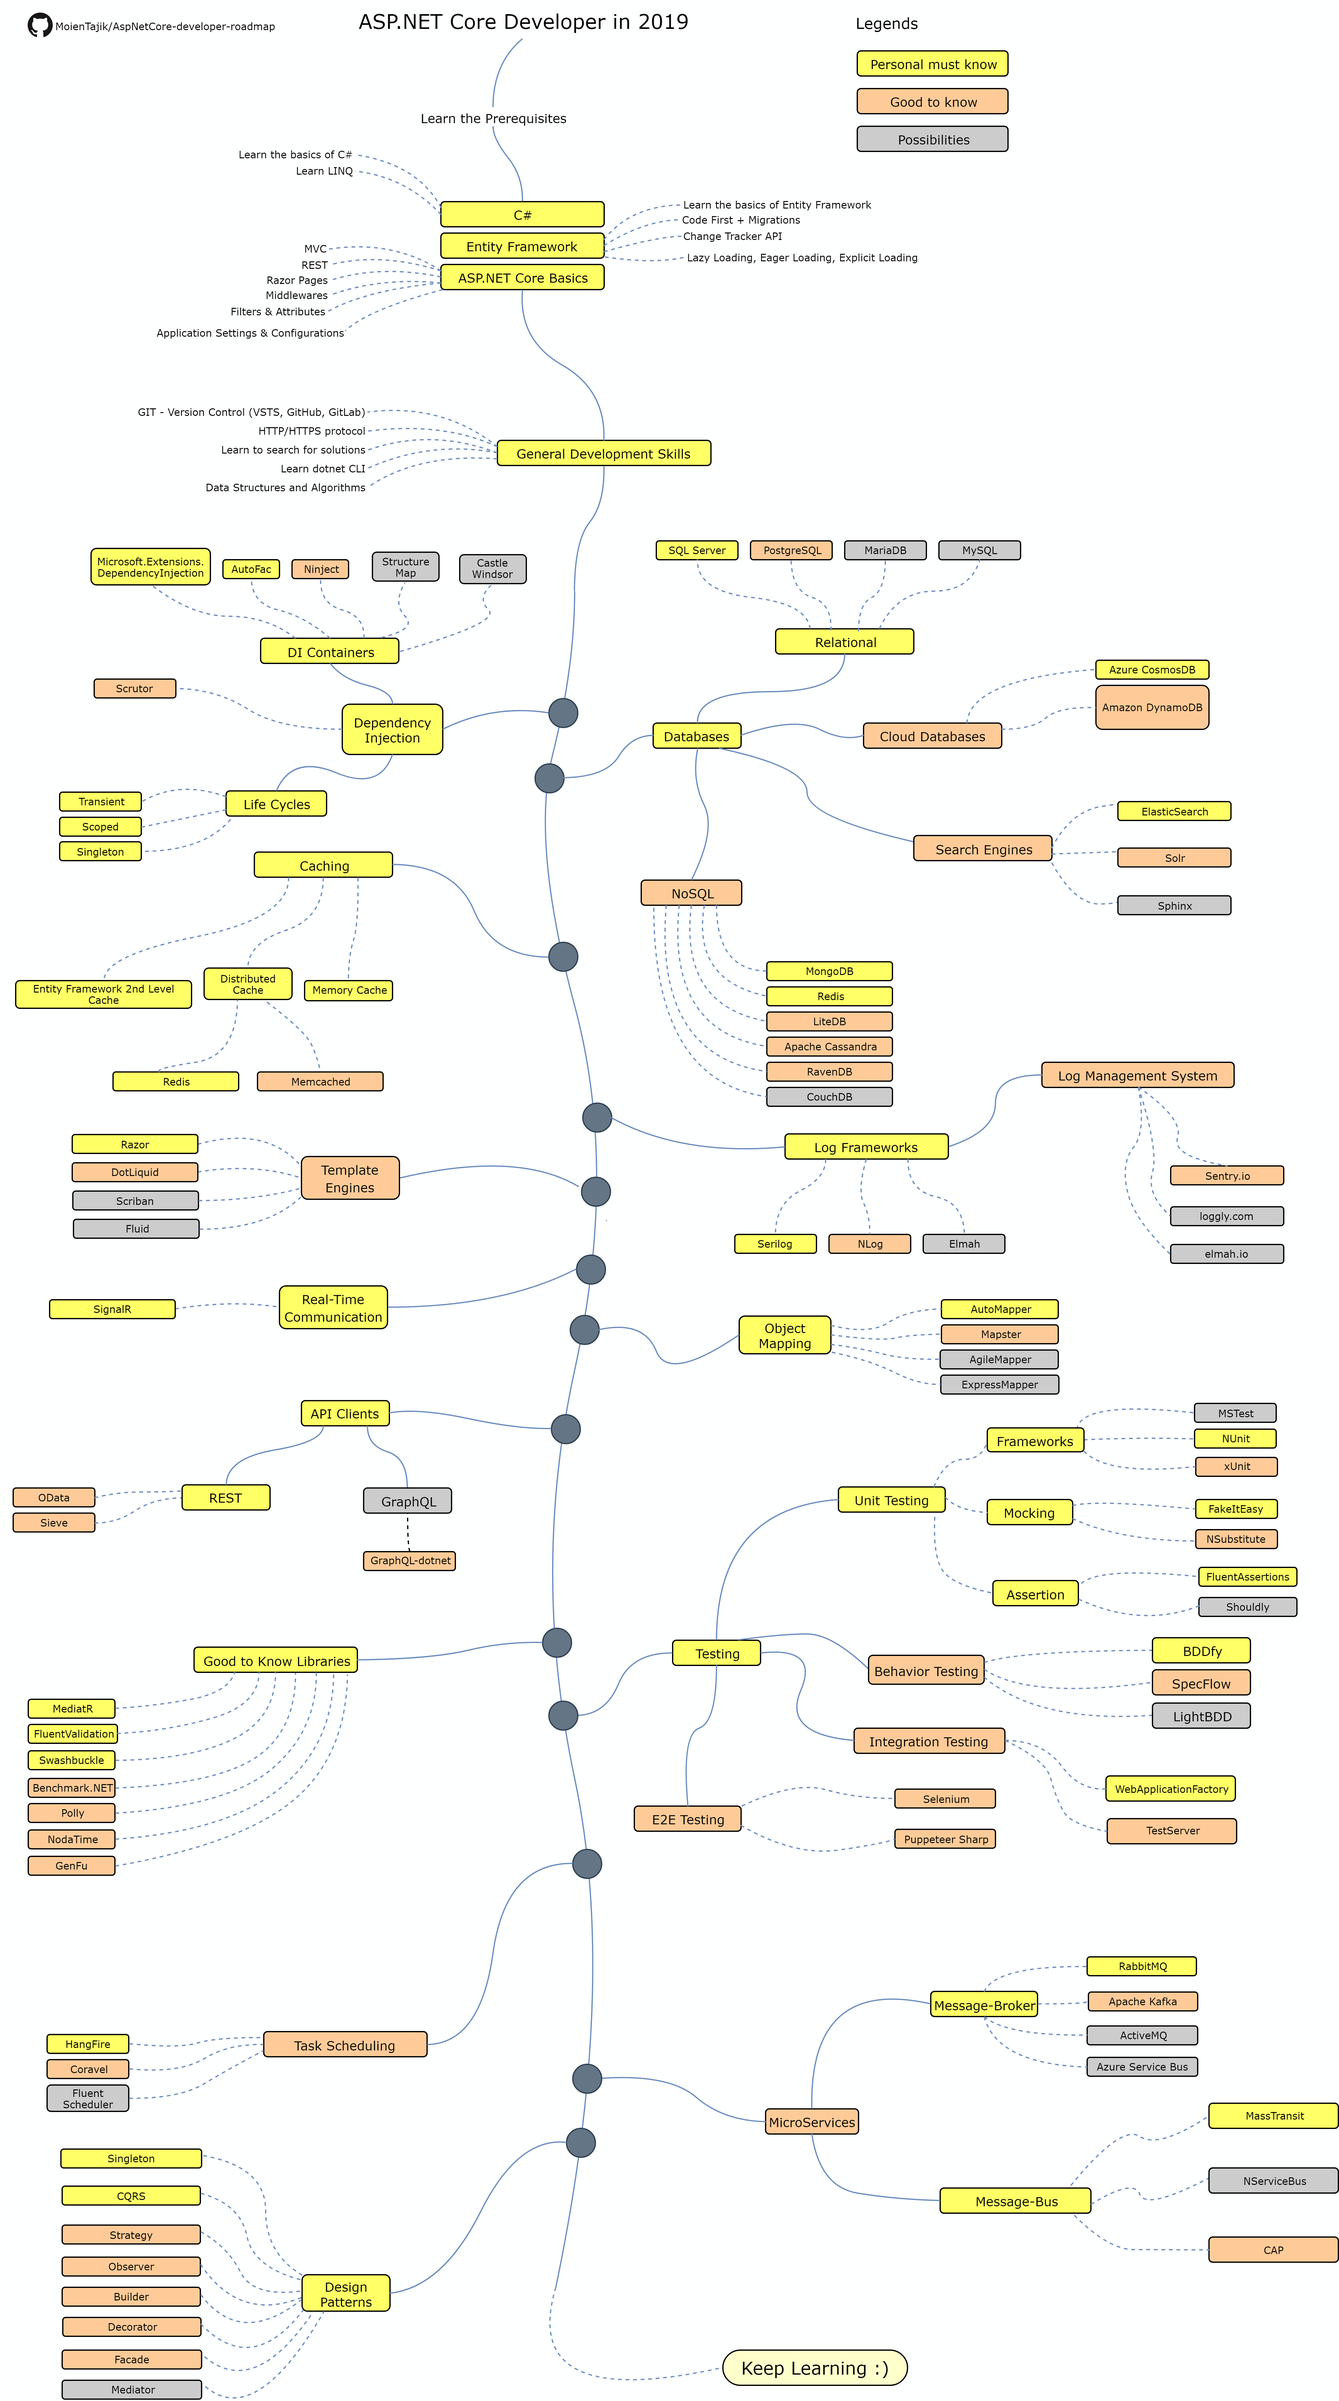
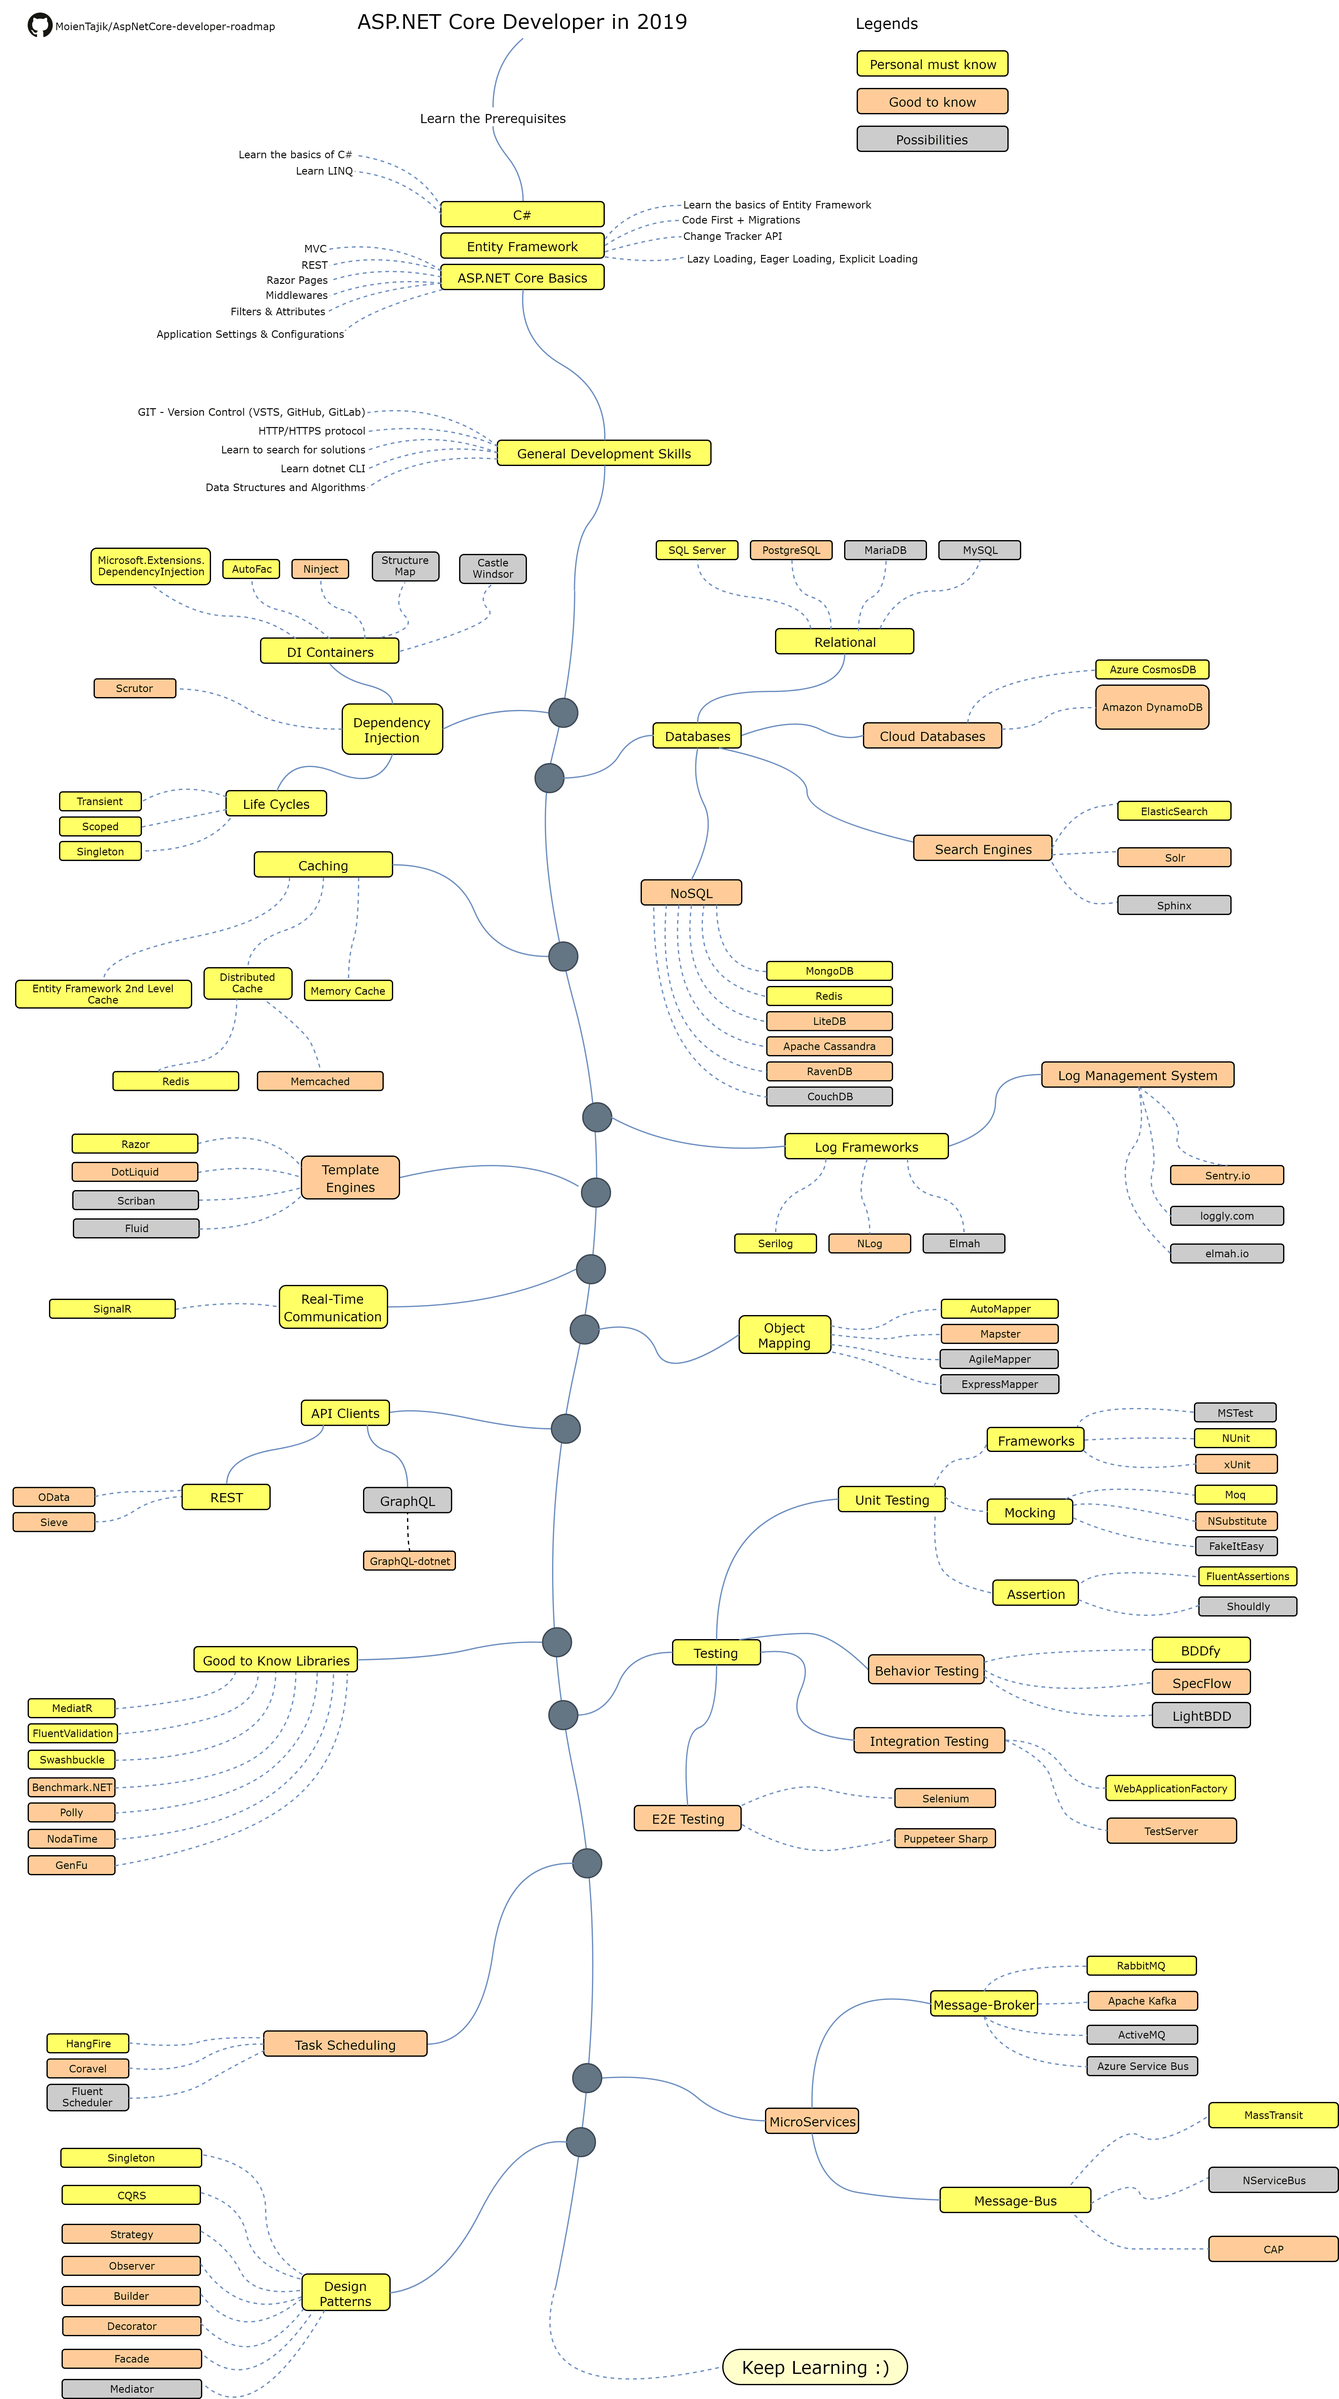
Added Moq to Mocking frameworks

diff --git a/ReadMe.md b/ReadMe.md
@@ -1,4 +1,3 @@
-
 # ASP.NET Core Developer Roadmap
 
 > Roadmap to becoming an [ASP.NET Core](https://docs.microsoft.com/en-us/aspnet/core/?view=aspnetcore-2.2) developer in 2019:
@@ -6,9 +5,11 @@
 Below you can find a chart demonstrating the paths that you can take and the libraries that you would want to learn to become an ASP.NET Core developer. I made this chart as a tip for everyone who asks me, "What should I learn next as an ASP.NET Core developer?"
 
 ## Disclaimer
+
 > The purpose of this roadmap is to give you an idea about the landscape. The road map will guide you if you are confused about what to learn next, rather than encouraging you to pick what is hip and trendy. You should grow some understanding of why one tool would be better suited for some cases than the other and remember hip and trendy does not always mean best suited for the job
 
 ## Give a Star! :star:
+
 If you like or are using this project to learn or start your solution, please give it a star. Thanks!
 
 ## Roadmap
@@ -18,146 +19,157 @@ If you like or are using this project to learn or start your solution, please gi
 ## Resources
 
 1. Prerequisites
-    * [C#](https://www.pluralsight.com/paths/csharp)
-    * [Entity Framework](https://www.pluralsight.com/search?q=entity%20framework%20core)
-    * [ASP.NET Core](https://www.pluralsight.com/search?q=asp.net%20core)
-    
+
+   - [C#](https://www.pluralsight.com/paths/csharp)
+   - [Entity Framework](https://www.pluralsight.com/search?q=entity%20framework%20core)
+   - [ASP.NET Core](https://www.pluralsight.com/search?q=asp.net%20core)
+
 2. General Development Skills
-    * Learn GIT, create a few repositories on GitHub, share your code with other people
-    * Know HTTP(S) protocol, request methods (GET, POST, PUT, PATCH, DELETE, OPTIONS)
-    * Don't be afraid of using Google, [Power Searching with Google](http://www.powersearchingwithgoogle.com/)
-    * Learn [dotnet CLI](https://docs.microsoft.com/en-us/dotnet/core/tools/?tabs=netcore2x)
-    * Read a few books about algorithms and data structures
-    
+
+   - Learn GIT, create a few repositories on GitHub, share your code with other people
+   - Know HTTP(S) protocol, request methods (GET, POST, PUT, PATCH, DELETE, OPTIONS)
+   - Don't be afraid of using Google, [Power Searching with Google](http://www.powersearchingwithgoogle.com/)
+   - Learn [dotnet CLI](https://docs.microsoft.com/en-us/dotnet/core/tools/?tabs=netcore2x)
+   - Read a few books about algorithms and data structures
+
 3. Dependency Injection
-    1. DI Containers
-        * [Microsoft.Extensions.DependencyInjection](https://docs.microsoft.com/en-us/aspnet/core/fundamentals/dependency-injection?view=aspnetcore-2.2)
-        * [AutoFac](https://autofaccn.readthedocs.io/en/latest/integration/aspnetcore.html)
-        * [Ninject](http://www.ninject.org/)
-        * [StructureMap](https://github.com/structuremap/structuremap)
-        * [Castle Windsor](https://github.com/castleproject/Windsor)
-    2. [Life Cycles](https://docs.microsoft.com/en-us/aspnet/core/fundamentals/dependency-injection?view=aspnetcore-2.2#service-lifetimes)
-    3. [Scrutor](https://github.com/khellang/Scrutor)
-    
+
+   1. DI Containers
+      - [Microsoft.Extensions.DependencyInjection](https://docs.microsoft.com/en-us/aspnet/core/fundamentals/dependency-injection?view=aspnetcore-2.2)
+      - [AutoFac](https://autofaccn.readthedocs.io/en/latest/integration/aspnetcore.html)
+      - [Ninject](http://www.ninject.org/)
+      - [StructureMap](https://github.com/structuremap/structuremap)
+      - [Castle Windsor](https://github.com/castleproject/Windsor)
+   2. [Life Cycles](https://docs.microsoft.com/en-us/aspnet/core/fundamentals/dependency-injection?view=aspnetcore-2.2#service-lifetimes)
+   3. [Scrutor](https://github.com/khellang/Scrutor)
+
 4. Databases
-    1. Relational
-	    1. [SQL Server](https://www.microsoft.com/en-us/sql-server/sql-server-2017)
-	    2. [PostgreSQL](https://www.postgresql.org/)
-	    3. [MariaDB](https://mariadb.org/)
-	    4. [MySQL](https://www.mysql.com/)
-    2. Cloud Databases
-        * [CosmosDB](https://docs.microsoft.com/en-us/azure/cosmos-db)
-        * [DynamoDB](https://aws.amazon.com/dynamodb/)
-    3. Search Engines
-        * [ElasticSearch](https://www.elastic.co/)
-        * [Solr](http://lucene.apache.org/solr/)
-        * [Sphinx](http://sphinxsearch.com/)
-    4. NoSQL
-	    * [MongoDB](https://docs.microsoft.com/en-us/aspnet/core/tutorials/first-mongo-app?view=aspnetcore-2.2&tabs=visual-studio)
-	    * [Redis](https://redis.io/)
-	    * [Apache Cassandra](http://cassandra.apache.org/)
-	    * [LiteDB](https://github.com/mbdavid/LiteDB)
-	    * [RavenDB](https://github.com/ravendb/ravendb)
-	    * [CouchDB](http://couchdb.apache.org/)
+
+   1. Relational
+      1. [SQL Server](https://www.microsoft.com/en-us/sql-server/sql-server-2017)
+      2. [PostgreSQL](https://www.postgresql.org/)
+      3. [MariaDB](https://mariadb.org/)
+      4. [MySQL](https://www.mysql.com/)
+   2. Cloud Databases
+      - [CosmosDB](https://docs.microsoft.com/en-us/azure/cosmos-db)
+      - [DynamoDB](https://aws.amazon.com/dynamodb/)
+   3. Search Engines
+      - [ElasticSearch](https://www.elastic.co/)
+      - [Solr](http://lucene.apache.org/solr/)
+      - [Sphinx](http://sphinxsearch.com/)
+   4. NoSQL
+      - [MongoDB](https://docs.microsoft.com/en-us/aspnet/core/tutorials/first-mongo-app?view=aspnetcore-2.2&tabs=visual-studio)
+      - [Redis](https://redis.io/)
+      - [Apache Cassandra](http://cassandra.apache.org/)
+      - [LiteDB](https://github.com/mbdavid/LiteDB)
+      - [RavenDB](https://github.com/ravendb/ravendb)
+      - [CouchDB](http://couchdb.apache.org/)
 
 5. Caching
-    1. Entity Framework 2nd Level Cache
-	    1. [EFSecondLevelCache.Core](https://github.com/VahidN/EFSecondLevelCache.Core)
-	    2. [EntityFrameworkCore.Cacheable](https://github.com/SteffenMangold/EntityFrameworkCore.Cacheable)
-    2. [Distributed Cache](https://docs.microsoft.com/en-us/aspnet/core/performance/caching/distributed?view=aspnetcore-2.2)
-        1. [Redis](https://redis.io/)
-        2. [Memcached](https://memcached.org/)
-    3. [Memory Cache](https://docs.microsoft.com/en-us/aspnet/core/performance/caching/memory?view=aspnetcore-2.2)
+
+   1. Entity Framework 2nd Level Cache
+      1. [EFSecondLevelCache.Core](https://github.com/VahidN/EFSecondLevelCache.Core)
+      2. [EntityFrameworkCore.Cacheable](https://github.com/SteffenMangold/EntityFrameworkCore.Cacheable)
+   2. [Distributed Cache](https://docs.microsoft.com/en-us/aspnet/core/performance/caching/distributed?view=aspnetcore-2.2)
+      1. [Redis](https://redis.io/)
+      2. [Memcached](https://memcached.org/)
+   3. [Memory Cache](https://docs.microsoft.com/en-us/aspnet/core/performance/caching/memory?view=aspnetcore-2.2)
 
 6. Logging
-      1. Log Frameworks
-            * [Serilog](https://github.com/serilog/serilog)
-            * [NLog](https://github.com/NLog/NLog)
-            * [Elmah](https://elmah.github.io/)
-      2. Log Management System
-            * [Sentry.io](http://sentry.io)
-            * [Loggly.com](https://loggly.com)
-            * [Elmah.io](http://elmah.io)
-	    
+   1. Log Frameworks
+      - [Serilog](https://github.com/serilog/serilog)
+      - [NLog](https://github.com/NLog/NLog)
+      - [Elmah](https://elmah.github.io/)
+   2. Log Management System
+      - [Sentry.io](http://sentry.io)
+      - [Loggly.com](https://loggly.com)
+      - [Elmah.io](http://elmah.io)
 7. Template Engines
-      1. Razor
-      2. [DotLiquid](https://github.com/dotliquid/dotliquid)
-      3. [Scriban](https://github.com/lunet-io/scriban)
-      4. [Fluid](https://github.com/sebastienros/fluid)
-      
+   1. Razor
+   2. [DotLiquid](https://github.com/dotliquid/dotliquid)
+   3. [Scriban](https://github.com/lunet-io/scriban)
+   4. [Fluid](https://github.com/sebastienros/fluid)
 8. Real-Time Communication
-      1. [SignalR](https://docs.microsoft.com/en-us/aspnet/core/signalr)
+
+   1. [SignalR](https://docs.microsoft.com/en-us/aspnet/core/signalr)
 
 9. Object Mapping
-    * [AutoMapper](https://github.com/AutoMapper/AutoMapper)
-    * [Mapster](https://github.com/MapsterMapper/Mapster)
-    * [AgileMapper](https://github.com/agileobjects/AgileMapper)
-    * [ExpressMapper](http://expressmapper.org/)
+
+   - [AutoMapper](https://github.com/AutoMapper/AutoMapper)
+   - [Mapster](https://github.com/MapsterMapper/Mapster)
+   - [AgileMapper](https://github.com/agileobjects/AgileMapper)
+   - [ExpressMapper](http://expressmapper.org/)
 
 10. API Clients
-      1. REST
-	        * [OData](https://blogs.msdn.microsoft.com/odatateam/2018/07/03/asp-net-core-odata-now-available/)
-	        * [Sieve](https://github.com/Biarity/Sieve)
+
+    1. REST
+       - [OData](https://blogs.msdn.microsoft.com/odatateam/2018/07/03/asp-net-core-odata-now-available/)
+       - [Sieve](https://github.com/Biarity/Sieve)
     2. GraphQL
-        * [GraphQL-dotnet](https://github.com/graphql-dotnet/graphql-dotnet)
+       - [GraphQL-dotnet](https://github.com/graphql-dotnet/graphql-dotnet)
 
 11. Good to Know
-    * [MediatR](https://github.com/jbogard/MediatR)
-    * [Fluent Validation](https://github.com/JeremySkinner/FluentValidation)
-    * [Swashbuckle](https://github.com/domaindrivendev/Swashbuckle.AspNetCore)
-    * [Benchmark.NET](https://github.com/dotnet/BenchmarkDotNet)
-    * [Polly](https://github.com/App-vNext/Polly)
-    * [NodaTime](https://github.com/nodatime/nodatime)
-    * [GenFu](https://github.com/MisterJames/GenFu)
+
+    - [MediatR](https://github.com/jbogard/MediatR)
+    - [Fluent Validation](https://github.com/JeremySkinner/FluentValidation)
+    - [Swashbuckle](https://github.com/domaindrivendev/Swashbuckle.AspNetCore)
+    - [Benchmark.NET](https://github.com/dotnet/BenchmarkDotNet)
+    - [Polly](https://github.com/App-vNext/Polly)
+    - [NodaTime](https://github.com/nodatime/nodatime)
+    - [GenFu](https://github.com/MisterJames/GenFu)
 
 12. Testing
-	1. Unit Testing
-		1. Frameworks
-		    * [MSTest](https://docs.microsoft.com/en-us/dotnet/core/testing/unit-testing-with-mstest)
-		    * [NUnit](https://docs.microsoft.com/en-us/dotnet/core/testing/unit-testing-with-nunit)
-		    * [xUnit](https://docs.microsoft.com/en-us/dotnet/core/testing/unit-testing-with-dotnet-test)
-		2. Mocking
-			* [FakeItEasy](https://github.com/FakeItEasy/FakeItEasy)
-			* [NSubstitute](https://github.com/nsubstitute/NSubstitute)
-		3. Assertion
-			* [FluentAssertion](https://github.com/fluentassertions/fluentassertions)
-			* [Shouldly](https://github.com/shouldly/shouldly)
-	2. Behavior Testing
-		* [BDDfy](https://github.com/TestStack/TestStack.BDDfy)
-		* [SpecFlow](https://github.com/techtalk/SpecFlow/tree/DotNetCore)
-		* [LightBDD](https://github.com/LightBDD/LightBDD)
-	3. Integration Testing
-		* [WebApplicationFactory](https://docs.microsoft.com/en-us/aspnet/core/test/integration-tests?view=aspnetcore-2.2)
-		* [TestServer](https://koukia.ca/integration-testing-in-asp-net-core-2-0-51d14ede3968)
-	4. E2E Testing
-		* [Selenium](https://www.automatetheplanet.com/webdriver-dotnetcore2/)
-		* [Puppeteer-Sharp](https://github.com/kblok/puppeteer-sharp)
+
+    1. Unit Testing
+       1. Frameworks
+          - [MSTest](https://docs.microsoft.com/en-us/dotnet/core/testing/unit-testing-with-mstest)
+          - [NUnit](https://docs.microsoft.com/en-us/dotnet/core/testing/unit-testing-with-nunit)
+          - [xUnit](https://docs.microsoft.com/en-us/dotnet/core/testing/unit-testing-with-dotnet-test)
+       2. Mocking
+          - [Moq](https://github.com/moq/moq4)
+          - [NSubstitute](https://github.com/nsubstitute/NSubstitute)
+          - [FakeItEasy](https://github.com/FakeItEasy/FakeItEasy)
+       3. Assertion
+          - [FluentAssertion](https://github.com/fluentassertions/fluentassertions)
+          - [Shouldly](https://github.com/shouldly/shouldly)
+    2. Behavior Testing
+       - [BDDfy](https://github.com/TestStack/TestStack.BDDfy)
+       - [SpecFlow](https://github.com/techtalk/SpecFlow/tree/DotNetCore)
+       - [LightBDD](https://github.com/LightBDD/LightBDD)
+    3. Integration Testing
+       - [WebApplicationFactory](https://docs.microsoft.com/en-us/aspnet/core/test/integration-tests?view=aspnetcore-2.2)
+       - [TestServer](https://koukia.ca/integration-testing-in-asp-net-core-2-0-51d14ede3968)
+    4. E2E Testing
+       - [Selenium](https://www.automatetheplanet.com/webdriver-dotnetcore2/)
+       - [Puppeteer-Sharp](https://github.com/kblok/puppeteer-sharp)
 
 13. Task Scheduling
-    * [HangFire](https://github.com/HangfireIO/Hangfire)
-    * [Coravel](https://github.com/jamesmh/coravel)
-    * [Fluent Scheduler](https://github.com/fluentscheduler/FluentScheduler)
+
+    - [HangFire](https://github.com/HangfireIO/Hangfire)
+    - [Coravel](https://github.com/jamesmh/coravel)
+    - [Fluent Scheduler](https://github.com/fluentscheduler/FluentScheduler)
 
 14. MicroServices
-	1. Message-Broker
-	    * [RabbitMQ](https://www.rabbitmq.com/tutorials/tutorial-one-dotnet.html)
-	    * [Apache Kafka](https://github.com/confluentinc/confluent-kafka-dotnet)
-	    * [ActiveMQ](https://github.com/apache/activemq)
-	    * [Azure Service Bus](https://docs.microsoft.com/en-us/azure/service-bus-messaging/service-bus-messaging-overview)
-	2. Message-Bus
-		* [MassTransit](https://github.com/MassTransit/MassTransit)
-		* [NServiceBus](https://github.com/Particular/NServiceBus)
-		* [CAP](https://github.com/dotnetcore/CAP)
+
+    1. Message-Broker
+       - [RabbitMQ](https://www.rabbitmq.com/tutorials/tutorial-one-dotnet.html)
+       - [Apache Kafka](https://github.com/confluentinc/confluent-kafka-dotnet)
+       - [ActiveMQ](https://github.com/apache/activemq)
+       - [Azure Service Bus](https://docs.microsoft.com/en-us/azure/service-bus-messaging/service-bus-messaging-overview)
+    2. Message-Bus
+       - [MassTransit](https://github.com/MassTransit/MassTransit)
+       - [NServiceBus](https://github.com/Particular/NServiceBus)
+       - [CAP](https://github.com/dotnetcore/CAP)
 
 15. Design-Patterns
-	* [Singleton](https://www.dofactory.com/net/singleton-design-pattern)
-	* [CQRS](https://docs.microsoft.com/en-us/azure/architecture/patterns/cqrs)
-	* [Strategy](https://www.dofactory.com/net/strategy-design-pattern)
-	* [Observer](https://www.dofactory.com/net/observer-design-pattern)
-	* [Builder](https://www.dofactory.com/net/builder-design-pattern)
-	* [Decorator](https://www.dofactory.com/net/decorator-design-pattern)
-	* [Facade](https://www.dofactory.com/net/facade-design-pattern)
-	* [Mediator](https://www.dofactory.com/net/mediator-design-pattern)
+    - [Singleton](https://www.dofactory.com/net/singleton-design-pattern)
+    - [CQRS](https://docs.microsoft.com/en-us/azure/architecture/patterns/cqrs)
+    - [Strategy](https://www.dofactory.com/net/strategy-design-pattern)
+    - [Observer](https://www.dofactory.com/net/observer-design-pattern)
+    - [Builder](https://www.dofactory.com/net/builder-design-pattern)
+    - [Decorator](https://www.dofactory.com/net/decorator-design-pattern)
+    - [Facade](https://www.dofactory.com/net/facade-design-pattern)
+    - [Mediator](https://www.dofactory.com/net/mediator-design-pattern)
 
 ## Wrap Up
 
